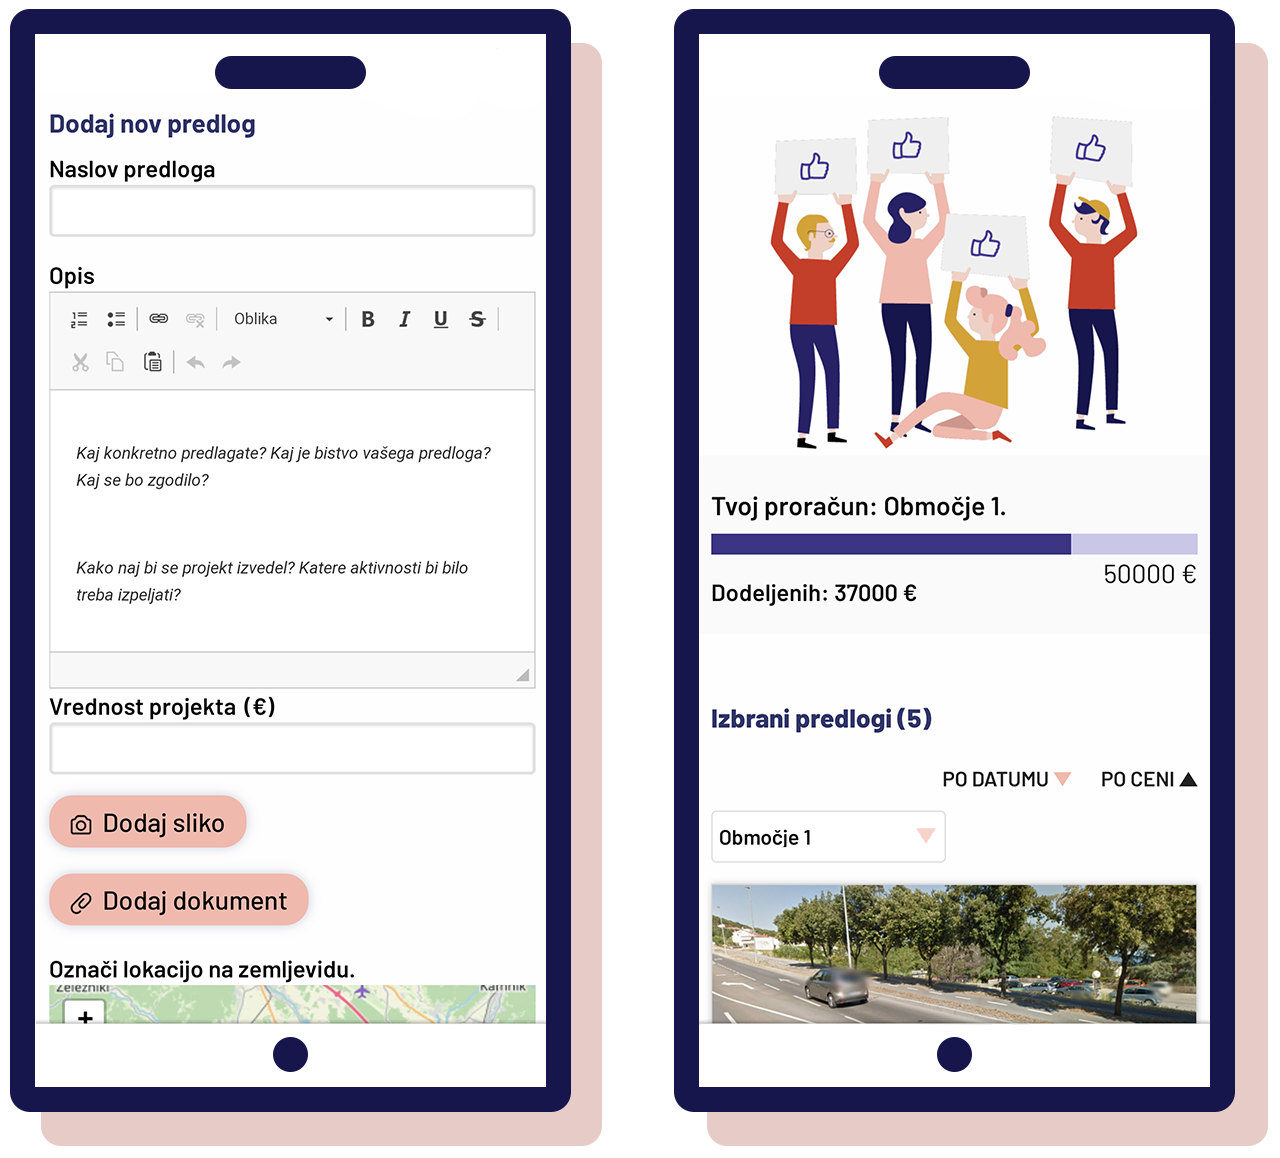
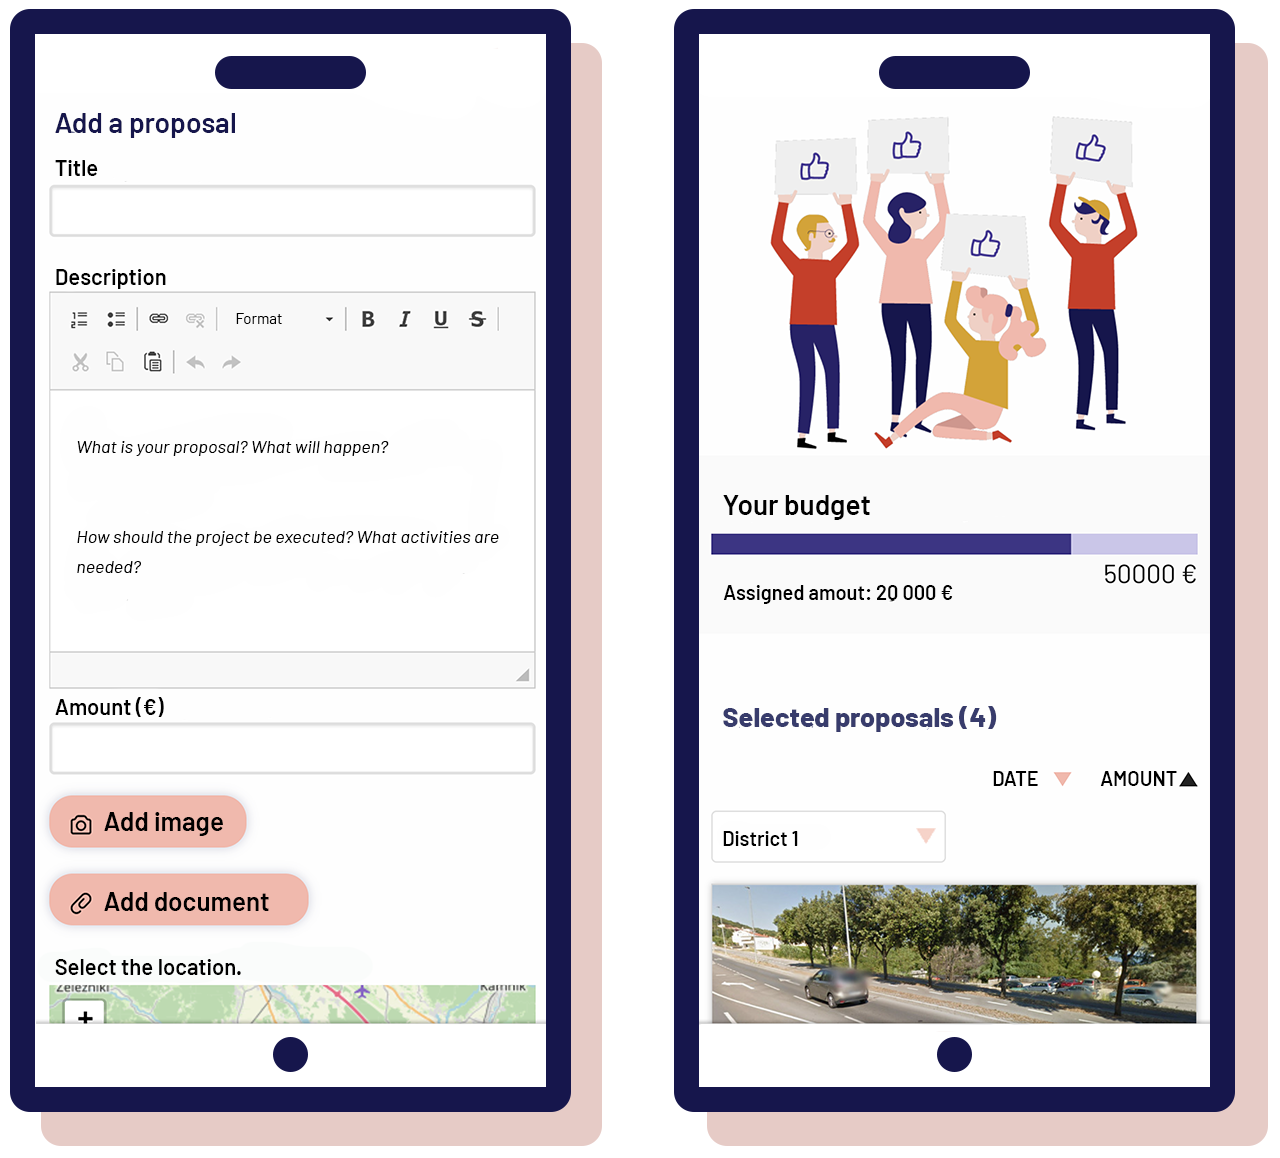
adding english images, language switching bugfix

diff --git a/src/index.html b/src/index.html
@@ -19,14 +19,14 @@
   <meta name="twitter:description" data-attr-t content-t="og-description" content="A comprehensive solution for implementing participatory budgeting.">
   <meta name="twitter:card" content="summary_large_image">
   <meta name="twitter:title" data-attr-t content-t="og-title" content="Consul Services: participatory budgeting made easy">
-  <meta name="twitter:image" content="https://consul.parlameter.org/img/consul_prodajni_og.png">
+  <meta name="twitter:image" data-attr-t data-attr-t-interpolate content-t="https://consul.danesjenovdan.si/img/consul_prodajni_og-{{lang}}.png">
 
   <meta property="og:description" data-attr-t content-t="og-description" content="A comprehensive solution for implementing participatory budgeting.">
   <meta property="og:type" content="website">
   <meta property="og:title" data-attr-t content-t="og-title" content="Consul Services: participatory budgeting made easy">
   <meta property="og:image:width" content="1200">
   <meta property="og:image:height" content="630">
-  <meta property="og:image" content="https://consul.parlameter.org/img/consul_prodajni_og.png">
+  <meta property="og:image" data-attr-t data-attr-t-interpolate content-t="https://consul.danesjenovdan.si/img/consul_prodajni_og-{{lang}}.png">
 
   <link href="https://fonts.googleapis.com/css?family=Barlow:300,400,500,700" rel="stylesheet">
 
@@ -38,18 +38,18 @@
     <div class="container-fluid" id="overview">
       <div class="container">
         <nav class="navbar navbar-expand-lg navbar-light" data-aos="fade">
-          <a class="navbar-brand" href="/" data-t="nav-brand">Consul storitve</a>
+          <a class="navbar-brand" data-attr-t data-attr-t-interpolate href-t="/{{lang}}" data-t="nav-brand">Consul storitve</a>
           <div class="collapse navbar-collapse justify-content-center">
             <div class="navbar-nav">
-              <a class="nav-item nav-link active" href="/" data-t="nav-overview">Overview <span class="sr-only">(current)</span></a>
+              <a class="nav-item nav-link active" data-attr-t data-attr-t-interpolate href-t="/{{lang}}" data-t="nav-overview">Overview <span class="sr-only">(current)</span></a>
               <a class="nav-item nav-link" href="#contact" data-t="nav-contact">Contact</a>
-              <a class="nav-item nav-link" href="about" data-t="nav-about-the-team">About the team</a>
+              <a class="nav-item nav-link" data-attr-t data-attr-t-interpolate href-t="about" data-t="nav-about-the-team">About the team</a>
             </div>
           </div>
           <form class="form-inline">
             <select class="custom-select select-lang">
-              <option value="/">EN</option>
-              <option value="/sl/">SL</option>
+              <option value="/">SL</option>
+              <option value="/en/">EN</option>
             </select>
           </form>
         </nav>
@@ -101,16 +101,16 @@
                 <div class="images">
                   <div class="image">
                     <!--<img data-attr-t data-attr-t-interpolate src-t="/gif/{{gif-prefix}}org-v-gif1.gif" src="http://placekitten.com/200/300" class="img-fluid active">-->
-                    <img data-attr-t data-attr-t-interpolate src-t="/img/prikaz-predlogi-{{img-lang}}.png" src="../static/img/prikaz-predlogi-sl.png" class="img-fluid active">
+                    <img data-attr-t data-attr-t-interpolate src-t="/img/prikaz-predlogi-{{lang}}.png" src="../static/img/prikaz-predlogi-.png" class="img-fluid active">
                   </div>
                   <div class="image">
-                    <img data-attr-t data-attr-t-interpolate src-t="/img/prikaz-glasovanje-{{img-lang}}.png" src="../static/img/prikaz-glasovanje-sl.png" class="img-fluid">
+                    <img data-attr-t data-attr-t-interpolate src-t="/img/prikaz-glasovanje-{{lang}}.png" src="../static/img/prikaz-glasovanje-.png" class="img-fluid">
                   </div>
                   <div class="image">
-                    <img data-attr-t data-attr-t-interpolate src-t="/img/prikaz-mobile-{{img-lang}}.png" src="../static/img/prikaz-mobile-sl.png" class="img-fluid">
+                    <img data-attr-t data-attr-t-interpolate src-t="/img/prikaz-mobile-{{lang}}.png" src="../static/img/prikaz-mobile-.png" class="img-fluid">
                   </div>
                   <div class="image">
-                    <img data-attr-t data-attr-t-interpolate src-t="/img/prikaz-upravljanje-{{img-lang}}.png" src="../static/img/prikaz-upravljanje-sl.png" class="img-fluid">
+                    <img data-attr-t data-attr-t-interpolate src-t="/img/prikaz-upravljanje-{{lang}}.png" src="../static/img/prikaz-upravljanje-.png" class="img-fluid">
                   </div>
                 </div>
               </div>
@@ -124,7 +124,7 @@
                       <div>
                         <span data-t="feature-1-desc">Zbiranje predlogov poteka skozi jasen in enostaven proces. Vsebina predloga je predstavljena strukturirano in pregledno. Omogočeno je dodajanje fotografij in lokacije.</span>
                         <div class="image d-block d-lg-none">
-                          <img data-attr-t data-attr-t-interpolate src-t="/img/prikaz-predlogi-{{img-lang}}.png" src="../static/img/prikaz-predlogi-sl.png" class="img-fluid active">
+                          <img data-attr-t data-attr-t-interpolate src-t="/img/prikaz-predlogi-{{lang}}.png" src="../static/img/prikaz-predlogi-.png" class="img-fluid active">
                         </div>
                       </div>
                     </dd>
@@ -137,7 +137,7 @@
                       <div>
                         <span data-t="feature-2-desc">Glasovanje o predlogih poteka po zaščitenem protokolu, ki preprečuje zlorabe. Varno, transparentno in hitro.</span>
                         <div class="image d-block d-lg-none">
-                          <img data-attr-t data-attr-t-interpolate src-t="/img/prikaz-glasovanje-{{img-lang}}.png" src="../static/img/prikaz-glasovanje-sl.png" class="img-fluid active">
+                          <img data-attr-t data-attr-t-interpolate src-t="/img/prikaz-glasovanje-{{lang}}.png" src="../static/img/prikaz-glasovanje-.png" class="img-fluid active">
                         </div>
                       </div>
                     </dd>
@@ -150,7 +150,7 @@
                       <div>
                         <span data-t="feature-3-desc">Izkušnja je prilagojena za mobilne naprave in omogoča, da uporabniki oddajajo in glasujejo za predloge kar na svojih mobilnih napravah.</span>
                         <div class="image d-block d-lg-none">
-                          <img data-attr-t data-attr-t-interpolate src-t="/img/prikaz-mobile-{{img-lang}}.png" src="../static/img/prikaz-mobile-sl.png" class="img-fluid active">
+                          <img data-attr-t data-attr-t-interpolate src-t="/img/prikaz-mobile-{{lang}}.png" src="../static/img/prikaz-mobile-.png" class="img-fluid active">
                         </div>
                       </div>
                     </dd>
@@ -163,7 +163,7 @@
                       <div>
                         <span data-t="feature-4-desc">Kot urednik participativnega proračuna imate popoln nadzor nad vsebinami in fazami procesa. Kontrolna plošča vam omogoča, da participativno odločanje izvedete popolnoma samostojno, brez programerskega znanja.</span>
                         <div class="image d-block d-lg-none">
-                          <img data-attr-t data-attr-t-interpolate src-t="/img/prikaz-upravljanje-{{img-lang}}.png" src="../static/img/prikaz-upravljanje-sl.png" class="img-fluid active">
+                          <img data-attr-t data-attr-t-interpolate src-t="/img/prikaz-upravljanje-{{lang}}.png" src="../static/img/prikaz-upravljanje-.png" class="img-fluid active">
                         </div>
                       </div>
                     </dd>

diff --git a/src/about.html b/src/about.html
@@ -19,14 +19,14 @@
   <meta name="twitter:description" data-attr-t content-t="og-description" content="A comprehensive solution for implementing participatory budgeting.">
   <meta name="twitter:card" content="summary_large_image">
   <meta name="twitter:title" data-attr-t content-t="og-title" content="Consul Services: participatory budgeting made easy">
-  <meta name="twitter:image" content="https://consul.parlameter.org/img/consul_prodajni_og.png">
+  <meta name="twitter:image" data-attr-t data-attr-t-interpolate content-t="https://consul.danesjenovdan.si/img/consul_prodajni_og-{{lang}}.png">
 
   <meta property="og:description" data-attr-t content-t="og-description" content="A comprehensive solution for implementing participatory budgeting.">
   <meta property="og:type" content="website">
   <meta property="og:title" data-attr-t content-t="og-title" content="Consul Services: participatory budgeting made easy">
   <meta property="og:image:width" content="1200">
   <meta property="og:image:height" content="630">
-  <meta property="og:image" content="https://consul.parlameter.org/img/consul_prodajni_og.png">
+  <meta property="og:image" data-attr-t data-attr-t-interpolate content-t="https://consul.danesjenovdan.si/img/consul_prodajni_og-{{lang}}.png">
 
   <link href="https://fonts.googleapis.com/css?family=Barlow:300,400,500,700" rel="stylesheet">
 
@@ -38,18 +38,18 @@
     <div class="container-fluid" id="overview">
       <div class="container">
         <nav class="navbar navbar-expand-lg navbar-light" data-aos="fade">
-          <a class="navbar-brand" href="/" data-t="nav-brand">Consul storitve</a>
+          <a class="navbar-brand" data-attr-t data-attr-t-interpolate href-t="/{{lang}}" data-t="nav-brand">Consul storitve</a>
           <div class="collapse navbar-collapse justify-content-center">
             <div class="navbar-nav">
-              <a class="nav-item nav-link" href="/" data-t="nav-overview">Overview</a>
+              <a class="nav-item nav-link" data-attr-t data-attr-t-interpolate href-t="/{{lang}}" data-t="nav-overview">Overview</a>
               <a class="nav-item nav-link" href="#contact" data-t="nav-contact">Contact</a>
-              <a class="nav-item nav-link active" href="about" data-t="nav-about-the-team">About the team <span class="sr-only">(current)</span></a>
+              <a class="nav-item nav-link active" data-attr-t data-attr-t-interpolate href-t="about" data-t="nav-about-the-team">About the team <span class="sr-only">(current)</span></a>
             </div>
           </div>
           <form class="form-inline">
             <select class="custom-select select-lang">
-              <option value="/">EN</option>
-              <option value="/sl/">SL</option>
+              <option value="/">SL</option>
+              <option value="/en/">EN</option>
             </select>
           </form>
         </nav>

diff --git a/src/case-studies/mestna-obcina-koper.html b/src/case-studies/mestna-obcina-koper.html
@@ -19,14 +19,14 @@
   <meta name="twitter:description" data-attr-t content-t="og-description" content="A comprehensive solution for implementing participatory budgeting.">
   <meta name="twitter:card" content="summary_large_image">
   <meta name="twitter:title" data-attr-t content-t="og-title" content="Consul Services: participatory budgeting made easy">
-  <meta name="twitter:image" content="https://consul.parlameter.org/img/consul_prodajni_og.png">
+  <meta name="twitter:image" data-attr-t data-attr-t-interpolate content-t="https://consul.danesjenovdan.si/img/consul_prodajni_og-{{lang}}.png">
 
   <meta property="og:description" data-attr-t content-t="og-description" content="A comprehensive solution for implementing participatory budgeting.">
   <meta property="og:type" content="website">
   <meta property="og:title" data-attr-t content-t="og-title" content="Consul Services: participatory budgeting made easy">
   <meta property="og:image:width" content="1200">
   <meta property="og:image:height" content="630">
-  <meta property="og:image" content="https://consul.parlameter.org/img/consul_prodajni_og.png">
+  <meta property="og:image" data-attr-t data-attr-t-interpolate content-t="https://consul.danesjenovdan.si/img/consul_prodajni_og-{{lang}}.png">
 
   <link href="https://fonts.googleapis.com/css?family=Barlow:300,400,500,700" rel="stylesheet">
 
@@ -38,18 +38,18 @@
     <div class="container-fluid" id="overview">
       <div class="container">
         <nav class="navbar navbar-expand-lg navbar-light" data-aos="fade">
-          <a class="navbar-brand" href="/" data-t="nav-brand">Consul storitve</a>
+          <a class="navbar-brand" data-attr-t data-attr-t-interpolate href-t="/{{lang}}" data-t="nav-brand">Consul storitve</a>
           <div class="collapse navbar-collapse justify-content-center">
             <div class="navbar-nav">
-              <a class="nav-item nav-link" href="/" data-t="nav-overview">Overview</a>
+              <a class="nav-item nav-link" data-attr-t data-attr-t-interpolate href-t="/{{lang}}" data-t="nav-overview">Overview</a>
               <a class="nav-item nav-link" href="#contact" data-t="nav-contact">Contact</a>
-              <a class="nav-item nav-link active" href="about" data-t="nav-about-the-team">About the team <span class="sr-only">(current)</span></a>
+              <a class="nav-item nav-link active" data-attr-t data-attr-t-interpolate href-t="about" data-t="nav-about-the-team">About the team <span class="sr-only">(current)</span></a>
             </div>
           </div>
           <form class="form-inline">
             <select class="custom-select select-lang">
-              <option value="/">EN</option>
-              <option value="/sl/">SL</option>
+              <option value="/">SL</option>
+              <option value="/en/">EN</option>
             </select>
           </form>
         </nav>
